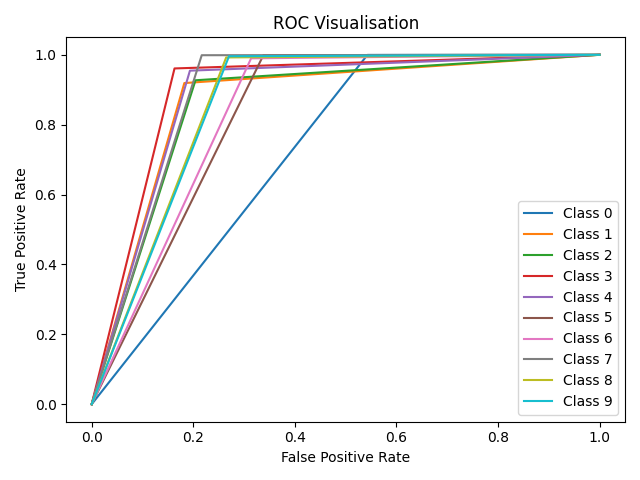
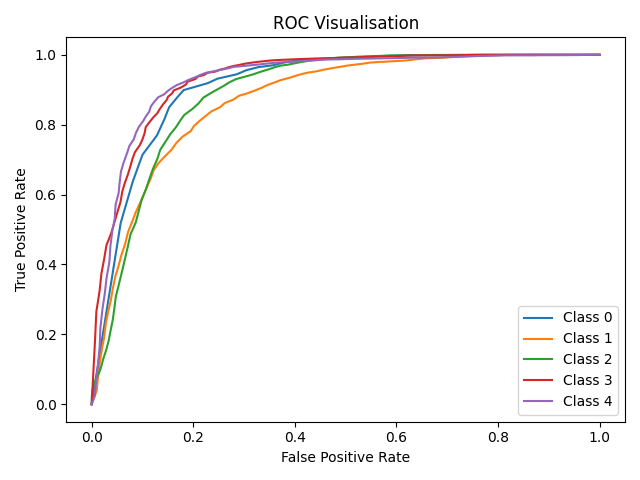
new Results

diff --git a/Decision_Trees/main.py b/Decision_Trees/main.py
@@ -17,7 +17,7 @@ testingLabels = pd.read_csv("../testing_data/y_test_smpl.csv")
 DT = sk.DecisionTreeClassifier(max_depth=None, random_state=42)
 # run J48 decision tree
 print("\nRunning J48 ....\n")
-J48_DT.runJ48(DT, crossVal=False, vis_tree=False, visualise=True, mean_std=False, data=data, labels=labels,
+J48_DT.runJ48(DT, crossVal=False, vis_tree=False, visualise=False, mean_std=False, data=data, labels=labels,
               testingData=testingData, testingLabels=testingLabels, save=False)
 
 # =================================== Random Forrest ====================================
@@ -25,6 +25,6 @@ rf_model = RandomForestClassifier(max_depth=None, random_state=42)
 # run RF tree
 print("\nRunning Random Forrest Classifier ....\n")
 labels = np.ravel(labels)
-RF_DT.runRF(rf_model, crossVal=False, vis_tree=False, visualise=True, mean_std=False, data=data, labels=labels,
+RF_DT.runRF(rf_model, crossVal=False, vis_tree=False, visualise=False, mean_std=False, data=data, labels=labels,
             testingData=testingData, testingLabels=testingLabels, save=False)
 

diff --git a/Decision_Trees/TFunctions.py b/Decision_Trees/TFunctions.py
@@ -48,8 +48,8 @@ def crossValidation(classifier, data, labels, visualise, mean_std):
     # get precision, recall and f1 measure
     print("\n", metrics.classification_report(labels, prediction))
     # loops through each of the classes
-    for i in range(0,10):
-        # gets cross val probability of the class
+    for i in range(0,5):
+        # gets cross val probability of the class - ROC Metric
         file = np.ravel(pd.read_csv("../training_data/y_train_smpl_"+str(i)+".csv"))
         print("ROC class: ", i)
         # get ROC values and TPR, FPR for ROC curve

diff --git a/linear_classifier/main.py b/linear_classifier/main.py
@@ -32,6 +32,8 @@ print(confusion_matrix)
 # get precision, recall and f1 measure
 print("\n", metrics.classification_report(labels, label_predictions))
 
+"""
+# ROC Calculation for the Linear Classifier - this does not work unfortunately
 auc_arr = []
 for i in range(0, 10):
     # gets cross val probability of the class
@@ -48,6 +50,7 @@ plt.xlabel("False Positive Rate")
 plt.ylabel("True Positive Rate")
 plt.legend()
 plt.show()
+"""
 
 # Get accuracy of the cross validation
 accuracy = accuracy_score(labels, label_predictions)

diff --git a/mlp/main.py b/mlp/main.py
@@ -29,8 +29,8 @@ print(confusion_matrix)
 # get precision, recall and f1 measure
 print("\n", metrics.classification_report(labels, label_predictions))
 auc_arr = []
-for i in range(0, 10):
-    # gets cross val probability of the class
+for i in range(0, 5):
+    # gets cross val probability of the class - ROC Metric
     file = np.ravel(pd.read_csv("../training_data/y_train_smpl_" + str(i) + ".csv"))
     print("ROC class: ", i)
     # get ROC values and TPR, FPR for ROC curve

diff --git a/Metrics.py b/Metrics.py
@@ -99,7 +99,7 @@ def classifier_tester(classifier, testType, train_data, train_labels, testData, 
 
     # predicts the labels from the test data given
     pred = classifier.predict(testData)
-    # gets probabilities for the classes
+    # gets probabilities for the classes - ROC metric
     probs = classifier.predict_proba(testData)
     print("Starting Confusion Matrix ....")
     # plots confusion matrix between testingLabels and the predicted labels
